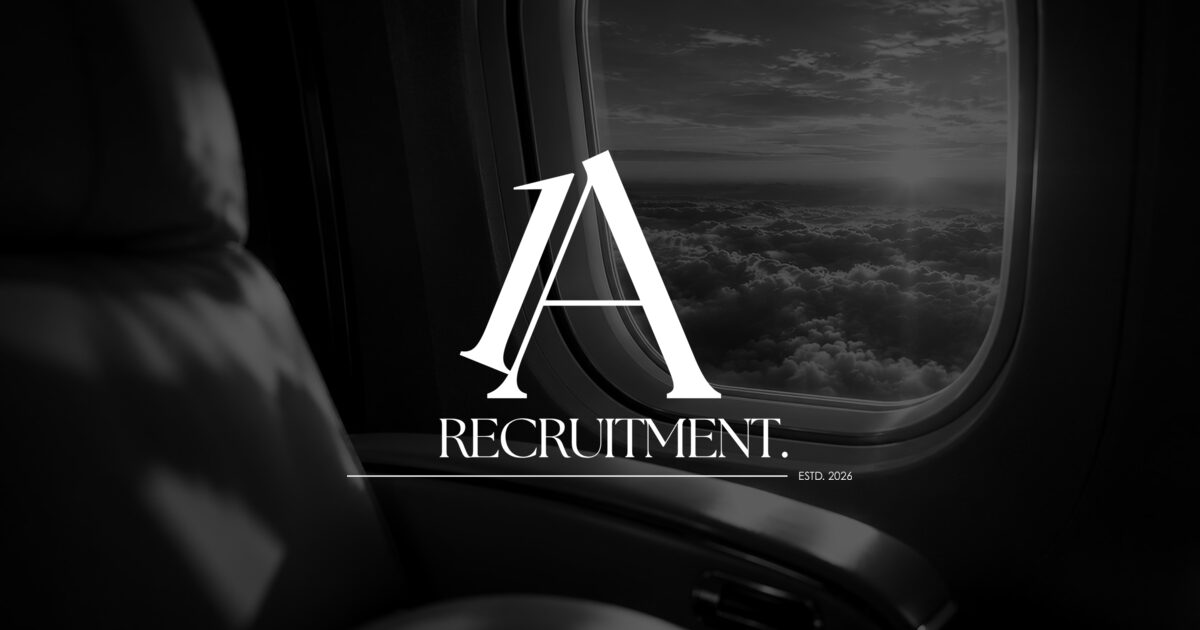
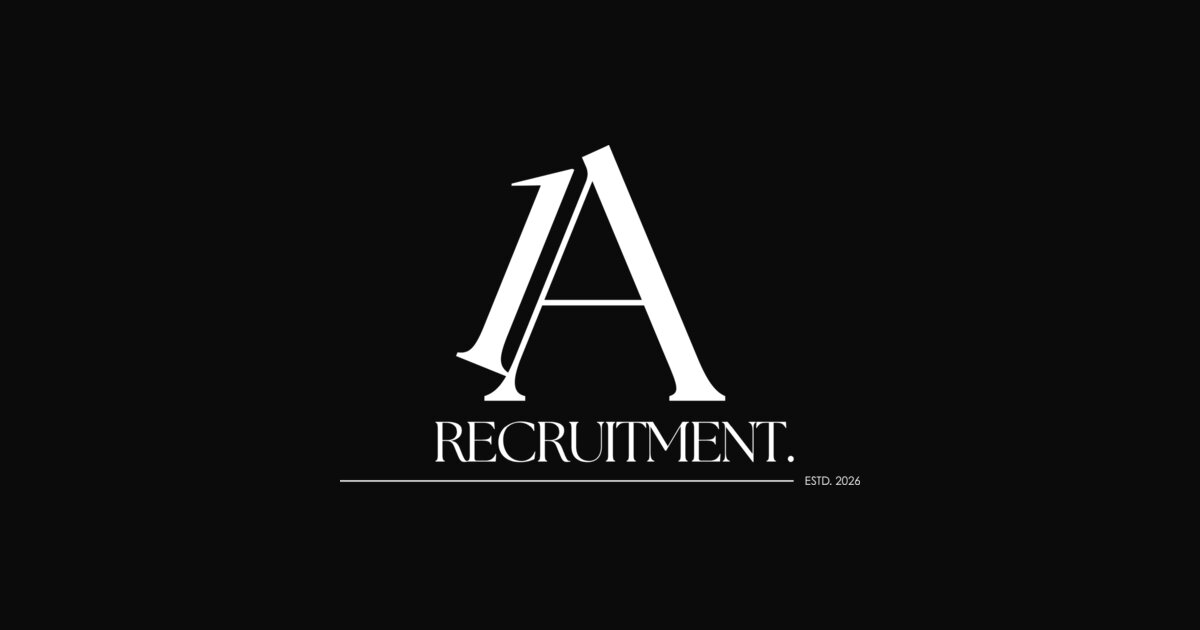
Remove photography from the site
- Remove the cabin and boardroom photos and their styles
- Centre the Who we are section now that it has no image
- Replace the LinkedIn preview image with the logo on black
- Delete the unused photo files and update the README

Claude-Session: https://claude.ai/code/session_012MJ3uweoFNBwxzg9dSVeG7

diff --git a/index.html b/index.html
@@ -19,7 +19,7 @@
 <meta property="og:image" content="https://1arecruitment.com/img/og-image.jpg">
 <meta property="og:image:width" content="1200">
 <meta property="og:image:height" content="630">
-<meta property="og:image:alt" content="The 1A Recruitment logo over a black and white photo of an aircraft window seat above the clouds">
+<meta property="og:image:alt" content="The 1A Recruitment logo in white on black">
 <meta name="twitter:card" content="summary_large_image">
 <meta name="twitter:title" content="1A Recruitment | Your next hire trained at 40,000 feet">
 <meta name="twitter:description" content="We place former international cabin crew into corporate roles. Remote, hybrid and UK.">
@@ -32,7 +32,6 @@
 <link rel="preconnect" href="https://fonts.googleapis.com">
 <link rel="preconnect" href="https://fonts.gstatic.com" crossorigin>
 <link rel="stylesheet" href="https://fonts.googleapis.com/css2?family=Gilda+Display&family=Jost:wght@300;400&display=swap">
-<link rel="preload" as="image" href="img/cabin-1600.webp" imagesrcset="img/cabin-900.webp 900w, img/cabin-1600.webp 1600w" imagesizes="(min-width: 1100px) 1000px, 90vw" type="image/webp">
 
 <script type="application/ld+json">
 {
@@ -144,18 +143,12 @@ button{font:inherit;color:inherit}
 .door p{color:var(--muted);max-width:30ch;font-size:.98rem}
 .door .btn{margin-top:10px}
 @media (max-width:640px){.doors{grid-template-columns:1fr}.door + .door{border-left:0;border-top:1px solid var(--line)}.door .btn{width:100%}}
-.frame{max-width:1000px;margin:clamp(88px,11vw,152px) auto 0;padding:clamp(8px,1.2vw,14px);border:1px solid var(--line)}
-.frame img{width:100%;aspect-ratio:16/9;object-fit:cover;object-position:center 45%}
-.frame figcaption{padding:14px 2px 2px;font-size:.66rem;letter-spacing:.28em;text-transform:uppercase;color:var(--faint);text-align:center}
-@media (max-width:640px){.frame img{aspect-ratio:4/5;object-position:66% center}}
 
 /* ---------- Who we are ---------- */
-.who{display:grid;grid-template-columns:minmax(0,5fr) minmax(0,6fr);gap:clamp(40px,8vw,120px);align-items:center}
-.who-img img{width:100%;aspect-ratio:4/5;object-fit:cover;object-position:28% center}
-.who-copy{display:grid;gap:26px;justify-items:start}
+.who{max-width:640px;margin:0 auto;text-align:center}
+.who-copy{display:grid;gap:26px;justify-items:center}
 .who-copy .lede + .lede{margin-top:-6px}
 .who-copy .closing{font-family:var(--serif);font-size:clamp(1.25rem,1.8vw,1.5rem);line-height:1.4;color:var(--fg)}
-@media (max-width:860px){.who{grid-template-columns:minmax(0,1fr)}.who-img{order:2}.who-img img{aspect-ratio:3/2}}
 .stats{display:grid;grid-template-columns:repeat(3,minmax(0,1fr));margin-top:clamp(80px,10vw,136px);text-align:center}
 .stat{display:grid;gap:10px;padding:8px 16px}
 .stat + .stat{border-left:1px solid var(--line)}
@@ -322,13 +315,6 @@ details[open] > summary .sign::after{transform:rotate(0)}
         <a class="btn" href="#crew">I&rsquo;m ex-crew</a>
       </div>
     </div>
-    <figure class="frame reveal">
-      <picture>
-        <source type="image/webp" srcset="img/cabin-900.webp 900w, img/cabin-1600.webp 1600w" sizes="(min-width: 1100px) 1000px, 90vw">
-        <img src="img/cabin-1600.jpg" srcset="img/cabin-900.jpg 900w, img/cabin-1600.jpg 1600w" sizes="(min-width: 1100px) 1000px, 90vw" width="1600" height="900" fetchpriority="high" alt="Black and white photo of a first-class window seat, with the sun setting over a sea of clouds outside the window.">
-      </picture>
-      <figcaption>Seat 1A</figcaption>
-    </figure>
   </div>
 </header>
 
@@ -338,12 +324,6 @@ details[open] > summary .sign::after{transform:rotate(0)}
   <section class="section" id="who" aria-labelledby="who-title">
     <div class="wrap">
       <div class="who">
-        <figure class="who-img reveal">
-          <picture>
-            <source type="image/webp" srcset="img/boardroom-700.webp 700w, img/boardroom-1200.webp 1200w" sizes="(min-width: 860px) 42vw, 90vw">
-            <img src="img/boardroom-1200.jpg" srcset="img/boardroom-700.jpg 700w, img/boardroom-1200.jpg 1200w" sizes="(min-width: 860px) 42vw, 90vw" width="1200" height="751" loading="lazy" decoding="async" alt="Black and white photo of an empty boardroom at golden hour, with leather chairs along a polished marble table.">
-          </picture>
-        </figure>
         <div class="who-copy reveal">
           <span class="label">Who we are</span>
           <h2 id="who-title">Seat 1A is the first seat on the aircraft.</h2>

diff --git a/README.md b/README.md
@@ -5,7 +5,7 @@ A plain static site for [1arecruitment.com](https://1arecruitment.com), served b
 ## Files
 
 - `index.html`: the whole page, including its styles and a little JavaScript.
-- `img/`: optimised black and white photos (JPEG and WebP at two sizes), the logo files and the LinkedIn preview image (`og-image.jpg`, 1200 × 630).
+- `img/`: the logo files and the LinkedIn preview image (`og-image.jpg`, 1200 × 630, the logo on black).
 - `favicon.ico`, `apple-touch-icon.png`, `img/favicon-32.png`, `img/icon-192.png`: icons made from the 1A mark.
 - `CNAME`: keeps the custom domain. Do not delete it.
 - `robots.txt` and `sitemap.xml`: help search engines find the page.
